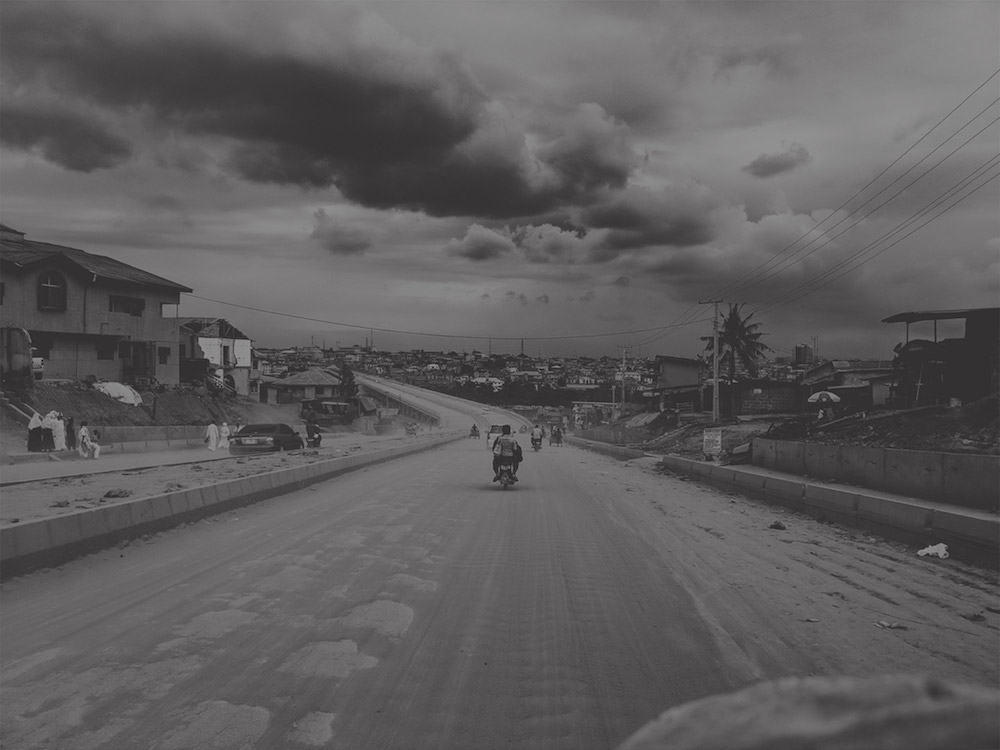
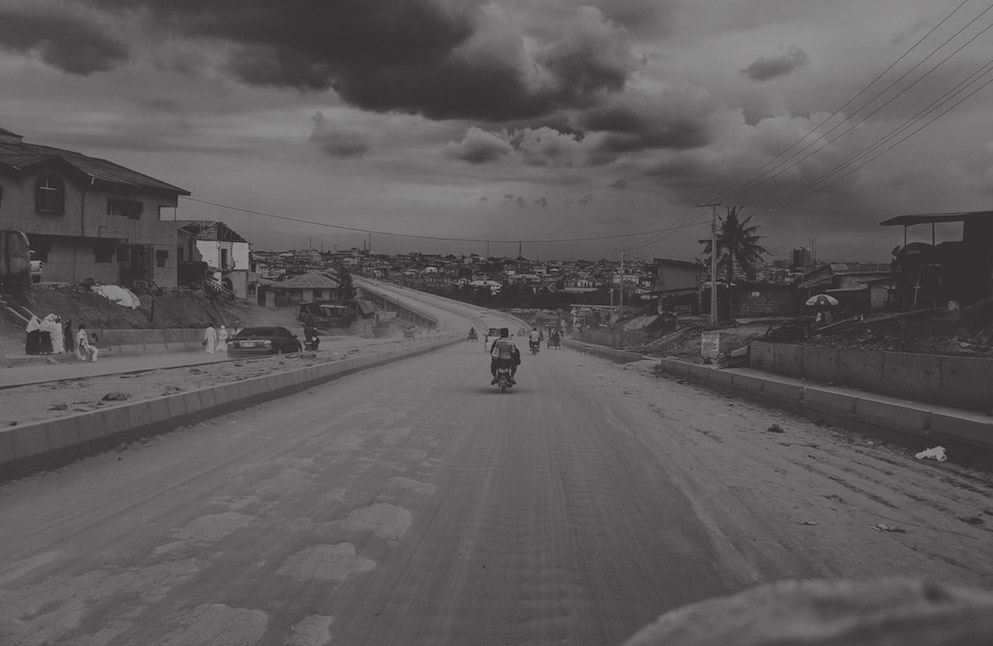
Update landing page background image

diff --git a/src/App.js b/src/App.js
@@ -59,7 +59,7 @@ const THEME = createMuiTheme({
     },
     h6: {
       color: '#424143',
-      fontFamily: HEADINGS_FONT_FAMILY,
+      fontFamily: FONT_FAMILY,
       fontWeight: 500,
       textTransform: 'uppercase'
     },

diff --git a/src/assets/css/App.css b/src/assets/css/App.css
@@ -4,7 +4,7 @@
   background-image: url('../images/background/bglanding.jpg');
   background-repeat: no-repeat;
   background-size: cover;
-  height: 90vh;
+  height: 100vh;
   max-width: 100%;
 }
 
